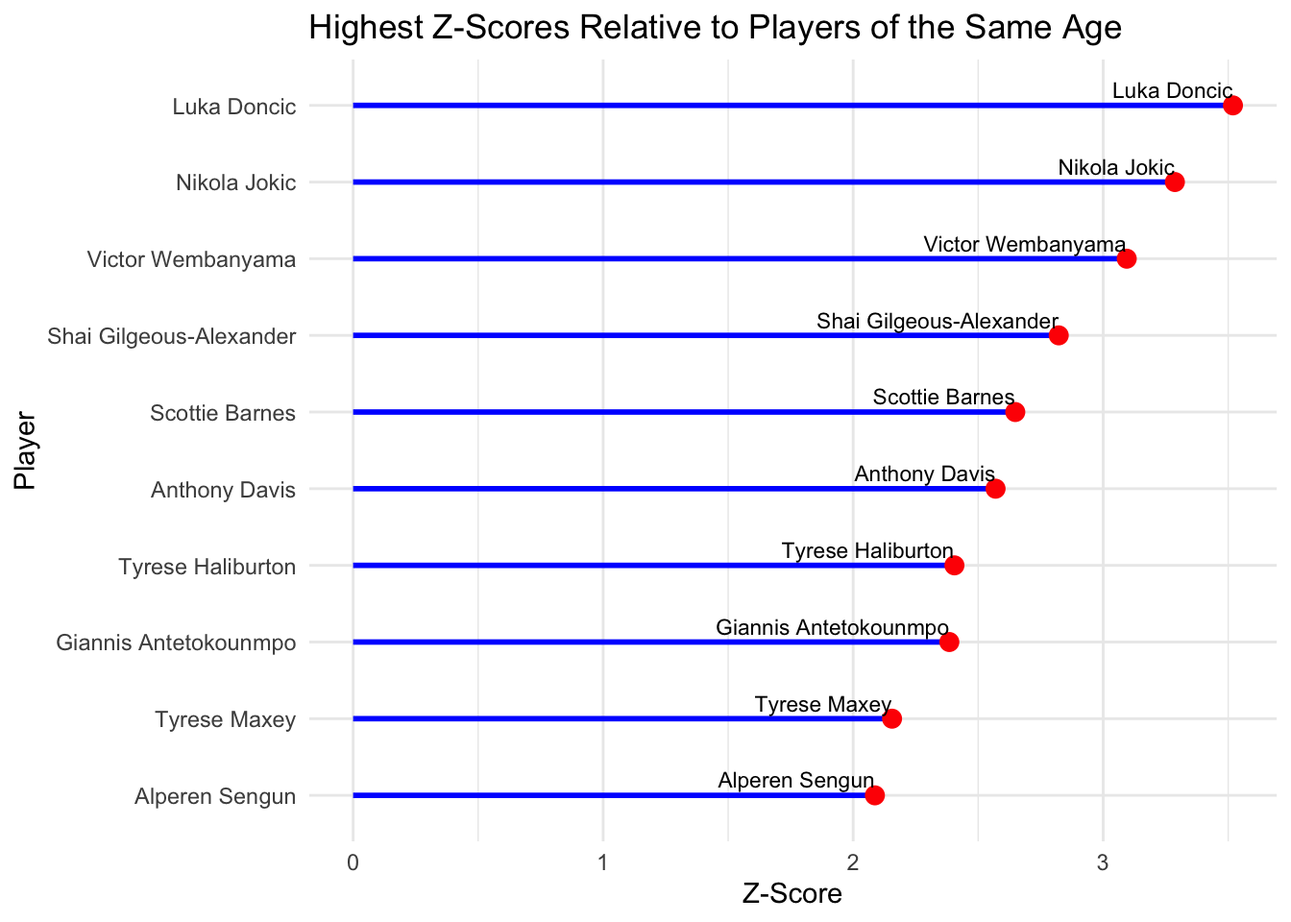
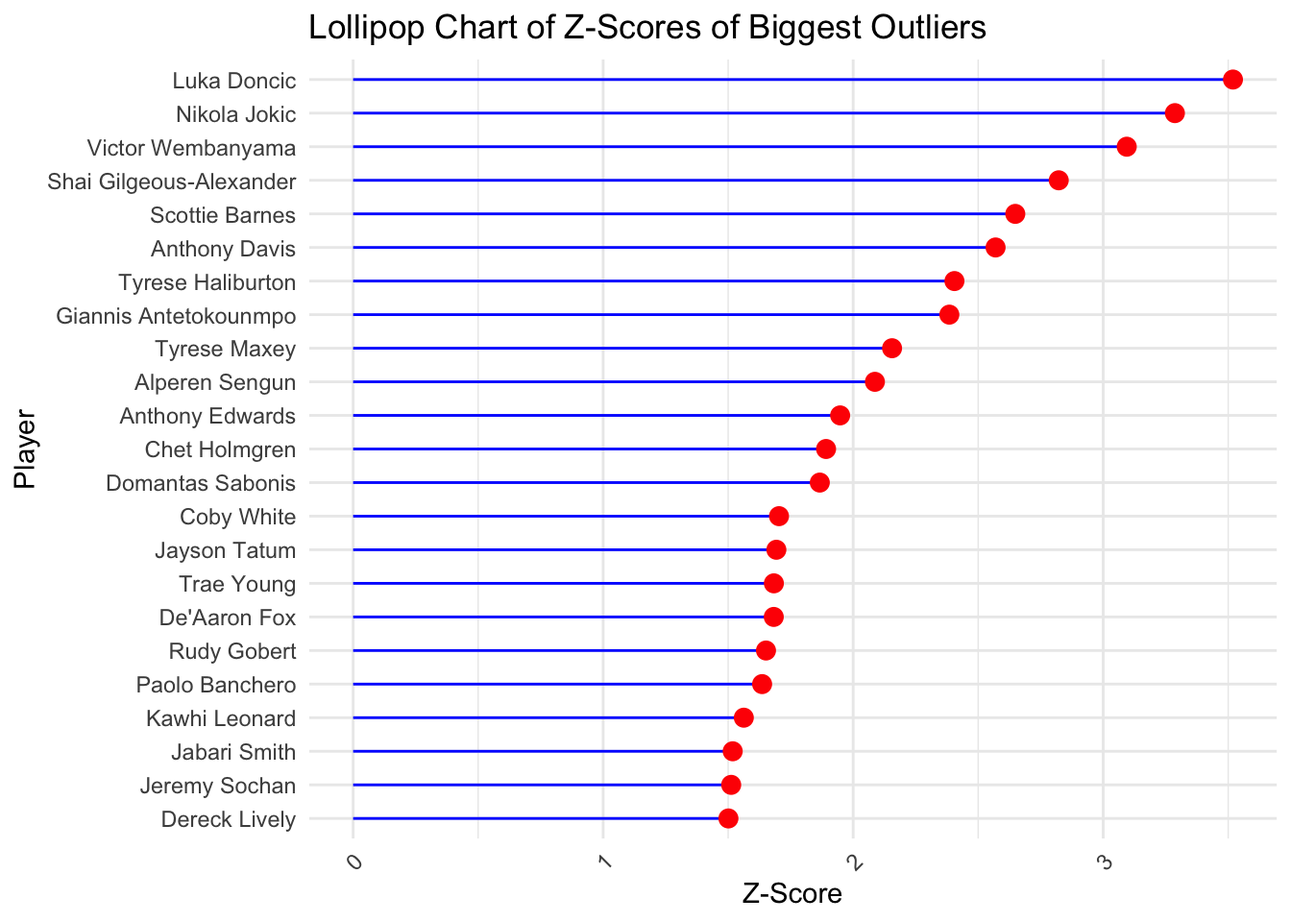
finished part 2

Changed region(s): [[0.0312, 0.0, 0.9688, 0.9062], [0.0, 0.4375, 0.0312, 0.5312]]

diff --git a/HW2-exploration.html b/HW2-exploration.html
@@ -101,15 +101,16 @@ pre > code.sourceCode > span > a:first-child::before { text-decoration: underlin
 
 </header>
 
-<section id="part-2" class="level1">
-<h1>Part 2</h1>
+<section id="part-2a" class="level1">
+<h1>Part 2a</h1>
 <div class="cell">
 <div class="sourceCode cell-code" id="cb1"><pre class="sourceCode r code-with-copy"><code class="sourceCode r"><span id="cb1-1"><a href="#cb1-1" aria-hidden="true" tabindex="-1"></a><span class="co"># Installing necessary libraries</span></span>
 <span id="cb1-2"><a href="#cb1-2" aria-hidden="true" tabindex="-1"></a><span class="fu">library</span>(tidyverse)</span>
 <span id="cb1-3"><a href="#cb1-3" aria-hidden="true" tabindex="-1"></a><span class="fu">library</span>(dplyr)</span>
 <span id="cb1-4"><a href="#cb1-4" aria-hidden="true" tabindex="-1"></a><span class="fu">library</span>(janitor)</span>
 <span id="cb1-5"><a href="#cb1-5" aria-hidden="true" tabindex="-1"></a><span class="fu">library</span>(here)</span>
-<span id="cb1-6"><a href="#cb1-6" aria-hidden="true" tabindex="-1"></a><span class="fu">library</span>(ggthemes)</span></code><button title="Copy to Clipboard" class="code-copy-button"><i class="bi"></i></button></pre></div>
+<span id="cb1-6"><a href="#cb1-6" aria-hidden="true" tabindex="-1"></a><span class="fu">library</span>(ggthemes)</span>
+<span id="cb1-7"><a href="#cb1-7" aria-hidden="true" tabindex="-1"></a><span class="fu">library</span>(ggridges)</span></code><button title="Copy to Clipboard" class="code-copy-button"><i class="bi"></i></button></pre></div>
 </div>
 <div class="cell">
 <div class="sourceCode cell-code" id="cb2"><pre class="sourceCode r code-with-copy"><code class="sourceCode r"><span id="cb2-1"><a href="#cb2-1" aria-hidden="true" tabindex="-1"></a><span class="co"># Import data</span></span>
@@ -129,32 +130,19 @@ pre > code.sourceCode > span > a:first-child::before { text-decoration: underlin
 <span id="cb3-3"><a href="#cb3-3" aria-hidden="true" tabindex="-1"></a></span>
 <span id="cb3-4"><a href="#cb3-4" aria-hidden="true" tabindex="-1"></a><span class="co"># Filtering data for only players that are rostered</span></span>
 <span id="cb3-5"><a href="#cb3-5" aria-hidden="true" tabindex="-1"></a>rostered_players <span class="ot">&lt;-</span> feb1_data <span class="sc">%&gt;%</span> </span>
-<span id="cb3-6"><a href="#cb3-6" aria-hidden="true" tabindex="-1"></a>  <span class="fu">filter</span>(fantasy_team <span class="sc">%in%</span> teams_in_league) </span>
-<span id="cb3-7"><a href="#cb3-7" aria-hidden="true" tabindex="-1"></a></span>
-<span id="cb3-8"><a href="#cb3-8" aria-hidden="true" tabindex="-1"></a><span class="co"># Calculate the 90th percentile of fp_g for each age group</span></span>
-<span id="cb3-9"><a href="#cb3-9" aria-hidden="true" tabindex="-1"></a>percentile_90 <span class="ot">&lt;-</span> rostered_players <span class="sc">%&gt;%</span></span>
-<span id="cb3-10"><a href="#cb3-10" aria-hidden="true" tabindex="-1"></a>  <span class="fu">group_by</span>(age) <span class="sc">%&gt;%</span></span>
-<span id="cb3-11"><a href="#cb3-11" aria-hidden="true" tabindex="-1"></a>  <span class="fu">summarize</span>(<span class="at">percentile_90 =</span> <span class="fu">quantile</span>(fp_g, <span class="fl">0.9</span>, <span class="at">na.rm =</span> <span class="cn">TRUE</span>))</span>
-<span id="cb3-12"><a href="#cb3-12" aria-hidden="true" tabindex="-1"></a></span>
-<span id="cb3-13"><a href="#cb3-13" aria-hidden="true" tabindex="-1"></a><span class="co"># Create a new column 'stud' to label players as studs</span></span>
-<span id="cb3-14"><a href="#cb3-14" aria-hidden="true" tabindex="-1"></a>rostered_players <span class="ot">&lt;-</span> rostered_players <span class="sc">%&gt;%</span></span>
-<span id="cb3-15"><a href="#cb3-15" aria-hidden="true" tabindex="-1"></a>  <span class="fu">left_join</span>(percentile_90, <span class="at">by =</span> <span class="st">"age"</span>) <span class="sc">%&gt;%</span></span>
-<span id="cb3-16"><a href="#cb3-16" aria-hidden="true" tabindex="-1"></a>  <span class="fu">mutate</span>(<span class="at">stud =</span> <span class="fu">ifelse</span>(fp_g <span class="sc">&gt;=</span> percentile_90, <span class="st">"Stud"</span>, <span class="st">"Not Stud"</span>))</span>
-<span id="cb3-17"><a href="#cb3-17" aria-hidden="true" tabindex="-1"></a></span>
-<span id="cb3-18"><a href="#cb3-18" aria-hidden="true" tabindex="-1"></a><span class="co"># Now 'stud' column will indicate whether a player is a "stud" or not</span></span></code><button title="Copy to Clipboard" class="code-copy-button"><i class="bi"></i></button></pre></div>
+<span id="cb3-6"><a href="#cb3-6" aria-hidden="true" tabindex="-1"></a>  <span class="fu">filter</span>(fantasy_team <span class="sc">%in%</span> teams_in_league) </span></code><button title="Copy to Clipboard" class="code-copy-button"><i class="bi"></i></button></pre></div>
 </div>
 </section>
 <section id="eda" class="level2">
 <h2 class="anchored" data-anchor-id="eda">EDA</h2>
 <p>Box plot of average fantasy points per player on each fantasy team.</p>
 <div class="cell">
-<div class="sourceCode cell-code" id="cb4"><pre class="sourceCode r code-with-copy"><code class="sourceCode r"><span id="cb4-1"><a href="#cb4-1" aria-hidden="true" tabindex="-1"></a><span class="co"># Creating the box plot</span></span>
-<span id="cb4-2"><a href="#cb4-2" aria-hidden="true" tabindex="-1"></a><span class="fu">ggplot</span>(rostered_players, <span class="fu">aes</span>(<span class="at">x =</span> fantasy_team, <span class="at">y =</span> fp_g)) <span class="sc">+</span></span>
-<span id="cb4-3"><a href="#cb4-3" aria-hidden="true" tabindex="-1"></a>  <span class="fu">geom_boxplot</span>() <span class="sc">+</span></span>
-<span id="cb4-4"><a href="#cb4-4" aria-hidden="true" tabindex="-1"></a>  <span class="fu">labs</span>(<span class="at">title =</span> <span class="st">"Box Plot of FP/G for Each Fantasy Team"</span>,</span>
-<span id="cb4-5"><a href="#cb4-5" aria-hidden="true" tabindex="-1"></a>       <span class="at">x =</span> <span class="st">"Fantasy Team"</span>,</span>
-<span id="cb4-6"><a href="#cb4-6" aria-hidden="true" tabindex="-1"></a>       <span class="at">y =</span> <span class="st">"Fantasy Points per Game (FP/G)"</span>) <span class="sc">+</span></span>
-<span id="cb4-7"><a href="#cb4-7" aria-hidden="true" tabindex="-1"></a>  <span class="fu">theme</span>(<span class="at">axis.text.x =</span> <span class="fu">element_text</span>(<span class="at">angle =</span> <span class="dv">45</span>, <span class="at">hjust =</span> <span class="dv">1</span>))</span></code><button title="Copy to Clipboard" class="code-copy-button"><i class="bi"></i></button></pre></div>
+<div class="sourceCode cell-code" id="cb4"><pre class="sourceCode r code-with-copy"><code class="sourceCode r"><span id="cb4-1"><a href="#cb4-1" aria-hidden="true" tabindex="-1"></a><span class="fu">ggplot</span>(rostered_players, <span class="fu">aes</span>(<span class="at">x =</span> fantasy_team, <span class="at">y =</span> fp_g)) <span class="sc">+</span></span>
+<span id="cb4-2"><a href="#cb4-2" aria-hidden="true" tabindex="-1"></a>  <span class="fu">geom_boxplot</span>() <span class="sc">+</span></span>
+<span id="cb4-3"><a href="#cb4-3" aria-hidden="true" tabindex="-1"></a>  <span class="fu">labs</span>(<span class="at">title =</span> <span class="st">"Box Plot of FP/G for Each Fantasy Team"</span>,</span>
+<span id="cb4-4"><a href="#cb4-4" aria-hidden="true" tabindex="-1"></a>       <span class="at">x =</span> <span class="st">"Fantasy Team"</span>,</span>
+<span id="cb4-5"><a href="#cb4-5" aria-hidden="true" tabindex="-1"></a>       <span class="at">y =</span> <span class="st">"Fantasy Points per Game (FP/G)"</span>) <span class="sc">+</span></span>
+<span id="cb4-6"><a href="#cb4-6" aria-hidden="true" tabindex="-1"></a>  <span class="fu">theme</span>(<span class="at">axis.text.x =</span> <span class="fu">element_text</span>(<span class="at">angle =</span> <span class="dv">45</span>, <span class="at">hjust =</span> <span class="dv">1</span>))</span></code><button title="Copy to Clipboard" class="code-copy-button"><i class="bi"></i></button></pre></div>
 <div class="cell-output-display">
 <p><img src="HW2-exploration_files/figure-html/unnamed-chunk-4-1.png" class="img-fluid" width="672"></p>
 </div>
@@ -184,13 +172,14 @@ pre > code.sourceCode > span > a:first-child::before { text-decoration: underlin
 <span id="cb6-3"><a href="#cb6-3" aria-hidden="true" tabindex="-1"></a>  <span class="fu">group_by</span>(age) <span class="sc">%&gt;%</span></span>
 <span id="cb6-4"><a href="#cb6-4" aria-hidden="true" tabindex="-1"></a>  <span class="fu">mutate</span>(<span class="at">z_score =</span> <span class="fu">scale</span>(f_pts))</span>
 <span id="cb6-5"><a href="#cb6-5" aria-hidden="true" tabindex="-1"></a></span>
-<span id="cb6-6"><a href="#cb6-6" aria-hidden="true" tabindex="-1"></a><span class="co"># Define the threshold for outliers (e.g., Z-score &gt; 2 or &lt; -2)</span></span>
-<span id="cb6-7"><a href="#cb6-7" aria-hidden="true" tabindex="-1"></a>outlier_threshold <span class="ot">&lt;-</span> <span class="dv">2</span></span>
+<span id="cb6-6"><a href="#cb6-6" aria-hidden="true" tabindex="-1"></a><span class="co"># Define the threshold for outliers </span></span>
+<span id="cb6-7"><a href="#cb6-7" aria-hidden="true" tabindex="-1"></a>outlier_threshold <span class="ot">&lt;-</span> <span class="fl">1.5</span></span>
 <span id="cb6-8"><a href="#cb6-8" aria-hidden="true" tabindex="-1"></a></span>
 <span id="cb6-9"><a href="#cb6-9" aria-hidden="true" tabindex="-1"></a><span class="co"># Filter and print the biggest outliers for each age group</span></span>
 <span id="cb6-10"><a href="#cb6-10" aria-hidden="true" tabindex="-1"></a>outliers <span class="ot">&lt;-</span> rostered_players <span class="sc">%&gt;%</span></span>
 <span id="cb6-11"><a href="#cb6-11" aria-hidden="true" tabindex="-1"></a>  <span class="fu">filter</span>(<span class="fu">abs</span>(z_score) <span class="sc">&gt;</span> outlier_threshold) <span class="sc">%&gt;%</span></span>
-<span id="cb6-12"><a href="#cb6-12" aria-hidden="true" tabindex="-1"></a>  <span class="fu">arrange</span>(age, <span class="fu">desc</span>(<span class="fu">abs</span>(z_score)))</span></code><button title="Copy to Clipboard" class="code-copy-button"><i class="bi"></i></button></pre></div>
+<span id="cb6-12"><a href="#cb6-12" aria-hidden="true" tabindex="-1"></a>  <span class="fu">arrange</span>(age, <span class="fu">desc</span>(<span class="fu">abs</span>(z_score))) <span class="sc">%&gt;%</span> </span>
+<span id="cb6-13"><a href="#cb6-13" aria-hidden="true" tabindex="-1"></a>  <span class="fu">filter</span>(z_score <span class="sc">&gt;</span> <span class="dv">0</span>)</span></code><button title="Copy to Clipboard" class="code-copy-button"><i class="bi"></i></button></pre></div>
 <div class="cell-output cell-output-stderr">
 <pre><code>Warning: Using one column matrices in `filter()` was deprecated in dplyr 1.1.0.
 ℹ Please use one dimensional logical vectors instead.</code></pre>
@@ -200,51 +189,105 @@ pre > code.sourceCode > span > a:first-child::before { text-decoration: underlin
 <span id="cb8-3"><a href="#cb8-3" aria-hidden="true" tabindex="-1"></a>  <span class="fu">select</span>(age, player, z_score) <span class="sc">%&gt;%</span></span>
 <span id="cb8-4"><a href="#cb8-4" aria-hidden="true" tabindex="-1"></a>  <span class="fu">print</span>(<span class="at">n =</span> <span class="cn">Inf</span>)</span></code><button title="Copy to Clipboard" class="code-copy-button"><i class="bi"></i></button></pre></div>
 <div class="cell-output cell-output-stdout">
-<pre><code># A tibble: 11 × 3
-# Groups:   age [10]
+<pre><code># A tibble: 23 × 3
+# Groups:   age [14]
      age player                  z_score[,1]
    &lt;int&gt; &lt;chr&gt;                         &lt;dbl&gt;
- 1    20 Victor Wembanyama              3.09
- 2    21 Alperen Sengun                 2.09
- 3    22 Scottie Barnes                 2.65
- 4    23 Tyrese Haliburton              2.41
- 5    23 Tyrese Maxey                   2.16
- 6    24 Luka Doncic                    3.52
- 7    25 Shai Gilgeous-Alexander        2.82
- 8    26 Lonzo Ball                    -2.03
- 9    28 Nikola Jokic                   3.29
-10    29 Giannis Antetokounmpo          2.38
-11    30 Anthony Davis                  2.57</code></pre>
+ 1    19 Dereck Lively                  1.50
+ 2    20 Victor Wembanyama              3.09
+ 3    20 Jabari Smith                   1.52
+ 4    20 Jeremy Sochan                  1.51
+ 5    21 Alperen Sengun                 2.09
+ 6    21 Chet Holmgren                  1.89
+ 7    21 Paolo Banchero                 1.64
+ 8    22 Scottie Barnes                 2.65
+ 9    22 Anthony Edwards                1.95
+10    23 Tyrese Haliburton              2.41
+11    23 Tyrese Maxey                   2.16
+12    23 Coby White                     1.70
+13    24 Luka Doncic                    3.52
+14    25 Shai Gilgeous-Alexander        2.82
+15    25 Jayson Tatum                   1.69
+16    25 Trae Young                     1.68
+17    26 De'Aaron Fox                   1.68
+18    27 Domantas Sabonis               1.87
+19    28 Nikola Jokic                   3.29
+20    29 Giannis Antetokounmpo          2.38
+21    30 Anthony Davis                  2.57
+22    31 Rudy Gobert                    1.65
+23    32 Kawhi Leonard                  1.56</code></pre>
 </div>
 </div>
 <div class="cell">
-<div class="sourceCode cell-code" id="cb10"><pre class="sourceCode r code-with-copy"><code class="sourceCode r"><span id="cb10-1"><a href="#cb10-1" aria-hidden="true" tabindex="-1"></a><span class="co"># Filter and select the top 20 players based on positive Z-scores</span></span>
-<span id="cb10-2"><a href="#cb10-2" aria-hidden="true" tabindex="-1"></a>top_players <span class="ot">&lt;-</span> rostered_players <span class="sc">%&gt;%</span></span>
-<span id="cb10-3"><a href="#cb10-3" aria-hidden="true" tabindex="-1"></a>  <span class="fu">filter</span>(z_score <span class="sc">&gt;</span> outlier_threshold) <span class="sc">%&gt;%</span></span>
-<span id="cb10-4"><a href="#cb10-4" aria-hidden="true" tabindex="-1"></a>  <span class="fu">arrange</span>(z_score) <span class="sc">%&gt;%</span></span>
-<span id="cb10-5"><a href="#cb10-5" aria-hidden="true" tabindex="-1"></a>  <span class="fu">head</span>(<span class="dv">20</span>)</span>
-<span id="cb10-6"><a href="#cb10-6" aria-hidden="true" tabindex="-1"></a></span>
-<span id="cb10-7"><a href="#cb10-7" aria-hidden="true" tabindex="-1"></a><span class="co"># Create a lollipop plot</span></span>
-<span id="cb10-8"><a href="#cb10-8" aria-hidden="true" tabindex="-1"></a>lollipop_plot <span class="ot">&lt;-</span> <span class="fu">ggplot</span>(top_players, <span class="fu">aes</span>(<span class="at">x =</span> <span class="fu">reorder</span>(player, z_score), <span class="at">y =</span> z_score)) <span class="sc">+</span></span>
-<span id="cb10-9"><a href="#cb10-9" aria-hidden="true" tabindex="-1"></a>  <span class="fu">geom_segment</span>(<span class="fu">aes</span>(<span class="at">xend =</span> <span class="fu">reorder</span>(player, z_score), <span class="at">yend =</span> <span class="dv">0</span>), <span class="at">color =</span> <span class="st">"blue"</span>, <span class="at">size =</span> <span class="dv">1</span>) <span class="sc">+</span></span>
-<span id="cb10-10"><a href="#cb10-10" aria-hidden="true" tabindex="-1"></a>  <span class="fu">geom_point</span>(<span class="at">color =</span> <span class="st">"red"</span>, <span class="at">size =</span> <span class="dv">3</span>) <span class="sc">+</span></span>
-<span id="cb10-11"><a href="#cb10-11" aria-hidden="true" tabindex="-1"></a>  <span class="fu">geom_text</span>(<span class="fu">aes</span>(<span class="at">label =</span> player), <span class="at">vjust =</span> <span class="sc">-</span><span class="fl">0.5</span>, <span class="at">hjust =</span> <span class="dv">1</span>, <span class="at">size =</span> <span class="dv">3</span>) <span class="sc">+</span></span>
-<span id="cb10-12"><a href="#cb10-12" aria-hidden="true" tabindex="-1"></a>  <span class="fu">coord_flip</span>() <span class="sc">+</span>  <span class="co"># Flip the coordinates to make it horizontal</span></span>
-<span id="cb10-13"><a href="#cb10-13" aria-hidden="true" tabindex="-1"></a>  <span class="fu">labs</span>(<span class="at">title =</span> <span class="st">"Highest Z-Scores Relative to Players of the Same Age"</span>,</span>
-<span id="cb10-14"><a href="#cb10-14" aria-hidden="true" tabindex="-1"></a>       <span class="at">x =</span> <span class="st">"Player"</span>,</span>
-<span id="cb10-15"><a href="#cb10-15" aria-hidden="true" tabindex="-1"></a>       <span class="at">y =</span> <span class="st">"Z-Score"</span>) <span class="sc">+</span></span>
-<span id="cb10-16"><a href="#cb10-16" aria-hidden="true" tabindex="-1"></a>  <span class="fu">theme_minimal</span>()  <span class="co"># Optional: Use a minimal theme</span></span></code><button title="Copy to Clipboard" class="code-copy-button"><i class="bi"></i></button></pre></div>
-<div class="cell-output cell-output-stderr">
-<pre><code>Warning: Using `size` aesthetic for lines was deprecated in ggplot2 3.4.0.
-ℹ Please use `linewidth` instead.</code></pre>
-</div>
-<div class="sourceCode cell-code" id="cb12"><pre class="sourceCode r code-with-copy"><code class="sourceCode r"><span id="cb12-1"><a href="#cb12-1" aria-hidden="true" tabindex="-1"></a><span class="co"># Print the lollipop plot</span></span>
-<span id="cb12-2"><a href="#cb12-2" aria-hidden="true" tabindex="-1"></a><span class="fu">print</span>(lollipop_plot)</span></code><button title="Copy to Clipboard" class="code-copy-button"><i class="bi"></i></button></pre></div>
+<div class="sourceCode cell-code" id="cb10"><pre class="sourceCode r code-with-copy"><code class="sourceCode r"><span id="cb10-1"><a href="#cb10-1" aria-hidden="true" tabindex="-1"></a><span class="co"># Sort the outliers df in descending order of Z-scores</span></span>
+<span id="cb10-2"><a href="#cb10-2" aria-hidden="true" tabindex="-1"></a>sorted_outliers <span class="ot">&lt;-</span> outliers <span class="sc">%&gt;%</span></span>
+<span id="cb10-3"><a href="#cb10-3" aria-hidden="true" tabindex="-1"></a>  <span class="fu">arrange</span>(<span class="fu">desc</span>(z_score))</span>
+<span id="cb10-4"><a href="#cb10-4" aria-hidden="true" tabindex="-1"></a></span>
+<span id="cb10-5"><a href="#cb10-5" aria-hidden="true" tabindex="-1"></a><span class="co"># Create a lollipop chart</span></span>
+<span id="cb10-6"><a href="#cb10-6" aria-hidden="true" tabindex="-1"></a>lollipop_chart <span class="ot">&lt;-</span> <span class="fu">ggplot</span>(sorted_outliers, <span class="fu">aes</span>(<span class="at">x =</span> <span class="fu">reorder</span>(player, z_score), <span class="at">y =</span> z_score)) <span class="sc">+</span></span>
+<span id="cb10-7"><a href="#cb10-7" aria-hidden="true" tabindex="-1"></a>  <span class="fu">geom_segment</span>(<span class="fu">aes</span>(<span class="at">xend =</span> player, <span class="at">yend =</span> <span class="dv">0</span>), <span class="at">color =</span> <span class="st">"blue"</span>) <span class="sc">+</span></span>
+<span id="cb10-8"><a href="#cb10-8" aria-hidden="true" tabindex="-1"></a>  <span class="fu">geom_point</span>(<span class="at">color =</span> <span class="st">"red"</span>, <span class="at">size =</span> <span class="dv">3</span>) <span class="sc">+</span></span>
+<span id="cb10-9"><a href="#cb10-9" aria-hidden="true" tabindex="-1"></a>  <span class="fu">coord_flip</span>() <span class="sc">+</span>  <span class="co"># Flip the coordinates for horizontal layout</span></span>
+<span id="cb10-10"><a href="#cb10-10" aria-hidden="true" tabindex="-1"></a>  <span class="fu">labs</span>(<span class="at">title =</span> <span class="st">"Lollipop Chart of Z-Scores of Biggest Outliers"</span>,</span>
+<span id="cb10-11"><a href="#cb10-11" aria-hidden="true" tabindex="-1"></a>       <span class="at">x =</span> <span class="st">"Player"</span>,</span>
+<span id="cb10-12"><a href="#cb10-12" aria-hidden="true" tabindex="-1"></a>       <span class="at">y =</span> <span class="st">"Z-Score"</span>) <span class="sc">+</span></span>
+<span id="cb10-13"><a href="#cb10-13" aria-hidden="true" tabindex="-1"></a>  <span class="fu">theme_minimal</span>() <span class="sc">+</span></span>
+<span id="cb10-14"><a href="#cb10-14" aria-hidden="true" tabindex="-1"></a>  <span class="fu">theme</span>(<span class="at">axis.text.x =</span> <span class="fu">element_text</span>(<span class="at">angle =</span> <span class="dv">45</span>, <span class="at">hjust =</span> <span class="dv">1</span>))</span>
+<span id="cb10-15"><a href="#cb10-15" aria-hidden="true" tabindex="-1"></a></span>
+<span id="cb10-16"><a href="#cb10-16" aria-hidden="true" tabindex="-1"></a><span class="co"># Print the lollipop chart</span></span>
+<span id="cb10-17"><a href="#cb10-17" aria-hidden="true" tabindex="-1"></a><span class="fu">print</span>(lollipop_chart)</span></code><button title="Copy to Clipboard" class="code-copy-button"><i class="bi"></i></button></pre></div>
 <div class="cell-output-display">
 <p><img src="HW2-exploration_files/figure-html/unnamed-chunk-7-1.png" class="img-fluid" width="672"></p>
 </div>
 </div>
 </section>
+<section id="histograms" class="level3">
+<h3 class="anchored" data-anchor-id="histograms">Histograms</h3>
+<div class="cell">
+<div class="sourceCode cell-code" id="cb11"><pre class="sourceCode r code-with-copy"><code class="sourceCode r"><span id="cb11-1"><a href="#cb11-1" aria-hidden="true" tabindex="-1"></a><span class="co"># Filter players with more than 20 fp_g</span></span>
+<span id="cb11-2"><a href="#cb11-2" aria-hidden="true" tabindex="-1"></a>filtered_players <span class="ot">&lt;-</span> rostered_players <span class="sc">%&gt;%</span></span>
+<span id="cb11-3"><a href="#cb11-3" aria-hidden="true" tabindex="-1"></a>  <span class="fu">filter</span>(fp_g <span class="sc">&gt;</span> <span class="dv">20</span>)</span>
+<span id="cb11-4"><a href="#cb11-4" aria-hidden="true" tabindex="-1"></a></span>
+<span id="cb11-5"><a href="#cb11-5" aria-hidden="true" tabindex="-1"></a><span class="co"># Calculate the mean Z score for each fantasy team</span></span>
+<span id="cb11-6"><a href="#cb11-6" aria-hidden="true" tabindex="-1"></a>mean_z_scores <span class="ot">&lt;-</span> filtered_players <span class="sc">%&gt;%</span></span>
+<span id="cb11-7"><a href="#cb11-7" aria-hidden="true" tabindex="-1"></a>  <span class="fu">group_by</span>(fantasy_team) <span class="sc">%&gt;%</span></span>
+<span id="cb11-8"><a href="#cb11-8" aria-hidden="true" tabindex="-1"></a>  <span class="fu">summarize</span>(<span class="at">mean_z_score =</span> <span class="fu">mean</span>(z_score, <span class="at">na.rm =</span> <span class="cn">TRUE</span>)) <span class="sc">%&gt;%</span></span>
+<span id="cb11-9"><a href="#cb11-9" aria-hidden="true" tabindex="-1"></a>  <span class="fu">arrange</span>(mean_z_score)</span>
+<span id="cb11-10"><a href="#cb11-10" aria-hidden="true" tabindex="-1"></a></span>
+<span id="cb11-11"><a href="#cb11-11" aria-hidden="true" tabindex="-1"></a><span class="co"># Join the mean Z score data with the filtered players data</span></span>
+<span id="cb11-12"><a href="#cb11-12" aria-hidden="true" tabindex="-1"></a>filtered_players_joined <span class="ot">&lt;-</span> filtered_players <span class="sc">%&gt;%</span></span>
+<span id="cb11-13"><a href="#cb11-13" aria-hidden="true" tabindex="-1"></a>  <span class="fu">inner_join</span>(mean_z_scores, <span class="at">by =</span> <span class="st">"fantasy_team"</span>)</span>
+<span id="cb11-14"><a href="#cb11-14" aria-hidden="true" tabindex="-1"></a></span>
+<span id="cb11-15"><a href="#cb11-15" aria-hidden="true" tabindex="-1"></a><span class="co"># Create the ridge plot</span></span>
+<span id="cb11-16"><a href="#cb11-16" aria-hidden="true" tabindex="-1"></a>ridge_plot <span class="ot">&lt;-</span> <span class="fu">ggplot</span>(filtered_players_joined, <span class="fu">aes</span>(<span class="at">x =</span> z_score, <span class="at">y =</span> <span class="fu">fct_reorder</span>(fantasy_team, mean_z_score))) <span class="sc">+</span></span>
+<span id="cb11-17"><a href="#cb11-17" aria-hidden="true" tabindex="-1"></a>  <span class="fu">geom_density_ridges</span>() <span class="sc">+</span></span>
+<span id="cb11-18"><a href="#cb11-18" aria-hidden="true" tabindex="-1"></a>  <span class="fu">labs</span>(<span class="at">title =</span> <span class="st">"Distribution of Z Scores for Each Fantasy Team (Players with &gt;20 FP/G)"</span>,</span>
+<span id="cb11-19"><a href="#cb11-19" aria-hidden="true" tabindex="-1"></a>       <span class="at">x =</span> <span class="st">"Z Score"</span>,</span>
+<span id="cb11-20"><a href="#cb11-20" aria-hidden="true" tabindex="-1"></a>       <span class="at">y =</span> <span class="st">"Fantasy Team"</span>) <span class="sc">+</span></span>
+<span id="cb11-21"><a href="#cb11-21" aria-hidden="true" tabindex="-1"></a>  <span class="fu">theme_minimal</span>()</span>
+<span id="cb11-22"><a href="#cb11-22" aria-hidden="true" tabindex="-1"></a></span>
+<span id="cb11-23"><a href="#cb11-23" aria-hidden="true" tabindex="-1"></a><span class="co"># Print the ridge plot</span></span>
+<span id="cb11-24"><a href="#cb11-24" aria-hidden="true" tabindex="-1"></a><span class="fu">print</span>(ridge_plot)</span></code><button title="Copy to Clipboard" class="code-copy-button"><i class="bi"></i></button></pre></div>
+<div class="cell-output cell-output-stderr">
+<pre><code>Picking joint bandwidth of 0.381</code></pre>
+</div>
+<div class="cell-output cell-output-stderr">
+<pre><code>Warning: Removed 2 rows containing non-finite values (`stat_density_ridges()`).</code></pre>
+</div>
+<div class="cell-output-display">
+<p><img src="HW2-exploration_files/figure-html/unnamed-chunk-8-1.png" class="img-fluid" width="672"></p>
+</div>
+</div>
+</section>
+</section>
+<section id="part-2b" class="level1">
+<h1>Part 2b</h1>
+<p>1. What have you learned about your data? Have any potentially interesting patterns emerged? (5-8 sentences)</p>
+<p>After doing some EDA, I have found that the data is clean and easy to work with overall. I have been able to identify some initial trends across fantasy teams: which teams have the best fantasy players and which NBA players are the most valuable compared to players the same age as them. Since the league is a dynasty format, it will be important to consider fantasy points and age when doing analysis to understand teams and their potential. So far, most things I feel like I know about the league have been furthered by the visuals: which teams are the strongest/weakest this season, which players are the most valuable and impressive for their age group, and which teams have the best depth of talent. I have learned that I will likely need to transform the data to incorporate age and fantasy scoring.</p>
+<p>2. In HW #1, you outlined some questions that you wanted to answer using these data. Have you made any strides towards answering those questions? If yes, how so? If no, what next steps do you need to take (e.g.&nbsp;I need to create X plot type, I still need to track down Y data, I need to restructure existing data so that you can visualize it in Z ways, etc.)?</p>
+<p>I have made some strides in determining which teams are better this season when interpreting on fantasy scoring distribution visuals. Further, I think that the ridge plot of z-scores is a good start in understanding which teams have the best value of player for their age. However, it does not take into account the fact that older players that perform better than the typical players that age are not as valuable as similarly rated players in younger age brackets. As a result, I think adding color would be an interesting way to incorporate this age dynamic into the visual. I will also want to consider other types of plots to show the value of younger players, and I will need to do more research and work with Sam and Sevan to dig deeper into this. I think it will benefit me to come up with some custom stats and methods to better quantify the importance of age, and then incorporate these methods into visuals in order to visualize more interesting and relevant information. I think the ridge plot is a really solid way to visualize the value across teams, since the 12 teams in the league fit nicely in the plot. Overall, I think I am on the right track to paint a picture of the league, but will need to do more thinking and processing of the data to better incorporate age and fantasy scoring into the visuals.</p>
+<p><strong>3.</strong> What challenges do you foresee encountering with your data? These can be data wrangling and / or visualization challenges.</p>
+<p>There is not a lot of data that I will be working with, which makes it more complicated to identify and create aesthetic visualizations. Also, there is more data that I will want to clean up but did not get around to in this EDA: players who have been injured all season or who are in the ‘Minors’ roster spots and do not contribute to fantasy team success this year. As I move forward with the analysis, it will be important to remove these values to better visualize the data that actually matters. Additionally, the roster sizes in the league are pretty large with 22 active players, 3 minors slots, and 2 injured reserve slots. Therefore, there are many times where there will not be room in the starting lineup (10 players) for players who have low fantasy point per game averages. As a result, more weight should be placed on the best players on each roster who are sure to start every game. I will need to</p>
 </section>
 
 </main>
